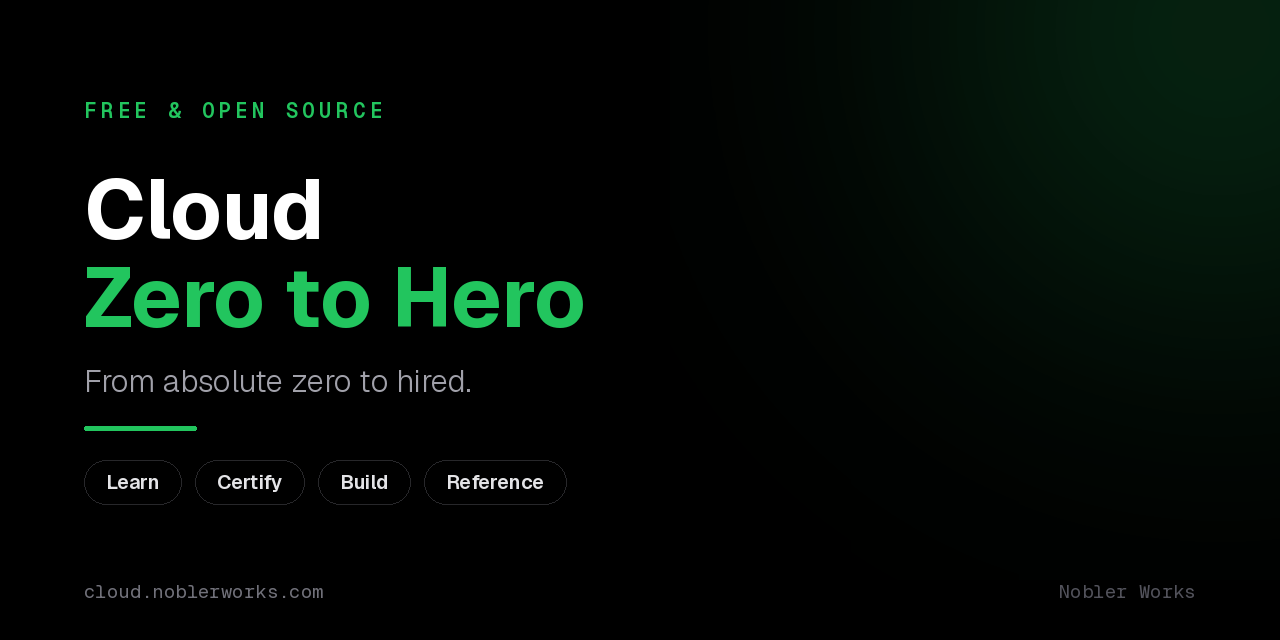
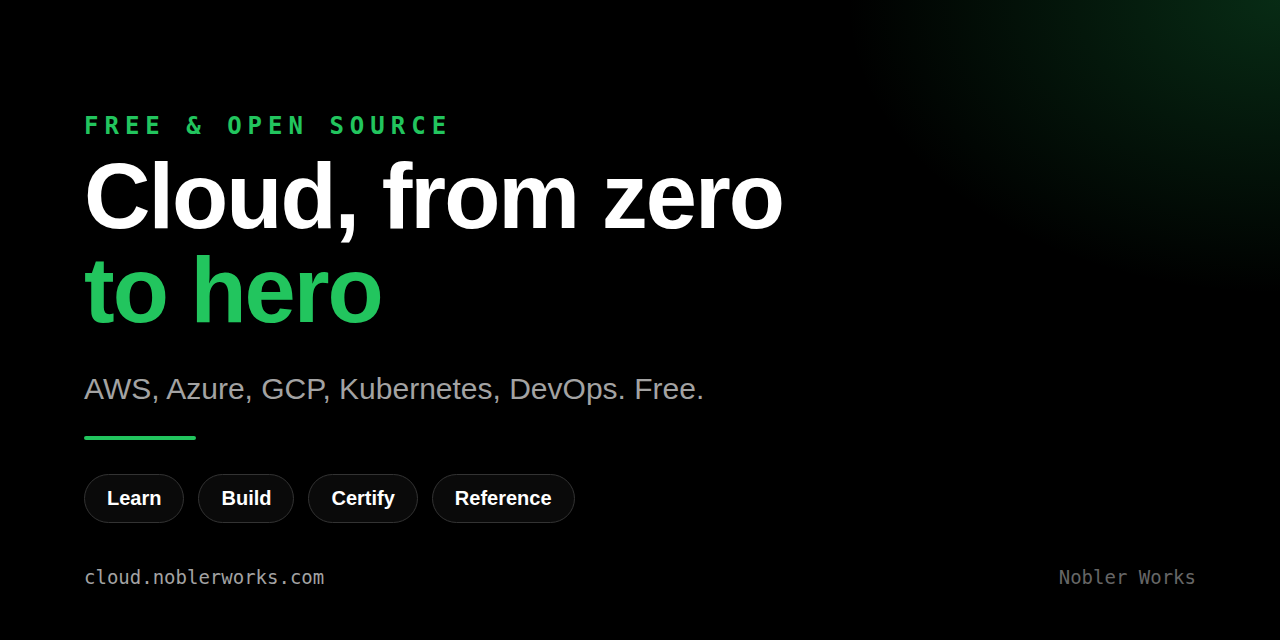
Same pattern on all four: "<Subject>, from zero to hero" home title and one shared social card template

diff --git a/assets/brand/social-preview.html b/assets/brand/social-preview.html
@@ -1,0 +1,31 @@
+<!doctype html>
+<!-- Social preview card (1280x640). One template for all four Zero to Hero sites
+     (cloud / data / security / ai .noblerworks.com) - change all four together.
+     Render: serve this folder over http and screenshot at 1280x640 into
+     social-preview-1280x640.png (headless Chromium or Playwright). No counts on the
+     card: a number baked into an image is a number nothing checks. -->
+<html><head><meta charset="utf-8">
+<style>
+  html,body{margin:0;padding:0;background:#000}
+  .card{width:1280px;height:640px;box-sizing:border-box;padding:0 84px;position:relative;overflow:hidden;
+    background:radial-gradient(ellipse 620px 420px at 100% 0%, rgba(34,197,94,0.22), transparent 70%), #000;
+    font-family:"Inter","Helvetica Neue",Arial,sans-serif;color:#fff}
+  .kicker{position:absolute;top:112px;font-family:"DejaVu Sans Mono",monospace;font-size:24px;letter-spacing:6px;color:#22c55e;font-weight:700}
+  h1{position:absolute;top:150px;margin:0;font-size:92px;line-height:1.02;font-weight:800;letter-spacing:-2px}
+  h1 .a{color:#22c55e}
+  .sub{position:absolute;top:372px;font-size:30px;color:#a3a3a3}
+  .rule{position:absolute;top:436px;width:112px;height:4px;background:#22c55e;border-radius:2px}
+  .chips{position:absolute;top:474px;display:flex;gap:14px}
+  .chip{border:1px solid #333;border-radius:28px;padding:12px 22px;font-size:20px;font-weight:700;background:#0a0a0a}
+  .url{position:absolute;bottom:52px;font-family:"DejaVu Sans Mono",monospace;font-size:19px;color:#a3a3a3}
+  .brand{position:absolute;bottom:52px;right:84px;font-family:"DejaVu Sans Mono",monospace;font-size:19px;color:#666}
+</style></head>
+<body><div class="card">
+  <div class="kicker">FREE &amp; OPEN SOURCE</div>
+  <h1>Cloud, from zero<br><span class="a">to hero</span></h1>
+  <div class="sub">AWS, Azure, GCP, Kubernetes, DevOps. Free.</div>
+  <div class="rule"></div>
+  <div class="chips"><div class="chip">Learn</div><div class="chip">Build</div><div class="chip">Certify</div><div class="chip">Reference</div></div>
+  <div class="url">cloud.noblerworks.com</div>
+  <div class="brand">Nobler Works</div>
+</div></body></html>

diff --git a/.github/site-overrides/main.html b/.github/site-overrides/main.html
@@ -10,7 +10,7 @@
   build.
 
   The image is assets/brand/social-preview-1280x640.png, generated by
-  .github/scripts/build-social-card.py and the same file uploaded to GitHub's own
+  assets/brand/social-preview.html (one template shared by all four Zero to Hero sites) and the same file uploaded to GitHub's own
   social preview, so the repo and the site present identically.
 
   NOTE: like partials/nav-item.html, this couples the site to Material's template

diff --git a/CONTRIBUTING.md b/CONTRIBUTING.md
@@ -175,7 +175,7 @@ Several scripts live under `.github/scripts/`. The validators run in CI on every
 - `glossary-upgrade-existing-links.py` - upgrades old section-level glossary links to per-term anchors when an anchor is available.
 
 - `check-repo-metadata.py` - checks the GitHub repository description, homepage and topics against the tree. The description is generated from `docs/certs.json`, never typed. `--fix` patches it, and needs admin rights, so it runs locally rather than in CI.
-- `build-social-card.py` - renders `assets/brand/social-preview-1280x640.png`, used both as GitHub's social preview and as the site's Open Graph image. Needs `pillow`.
+- `assets/brand/social-preview.html` - the social preview card template (same layout on all four Zero to Hero sites); screenshot it at 1280x640 into `assets/brand/social-preview-1280x640.png`, used both as GitHub's social preview and the site's Open Graph image.
 
 **CI workflows under `.github/workflows/`:**
 

diff --git a/.github/site/home.md b/.github/site/home.md
@@ -24,7 +24,7 @@
 
 <div class="home-hero" markdown>
 
-# Cloud Zero to Hero { .home-title }
+# Cloud, from zero to hero { .home-title }
 
 <p class="home-intro">AWS, Azure, GCP, OCI, Kubernetes, Linux, networking, Terraform, DevOps, SRE and FinOps. Plain-English concepts, hands-on builds, deep references, and a full cloud certification library - free, no signup, nothing gated.</p>
 
